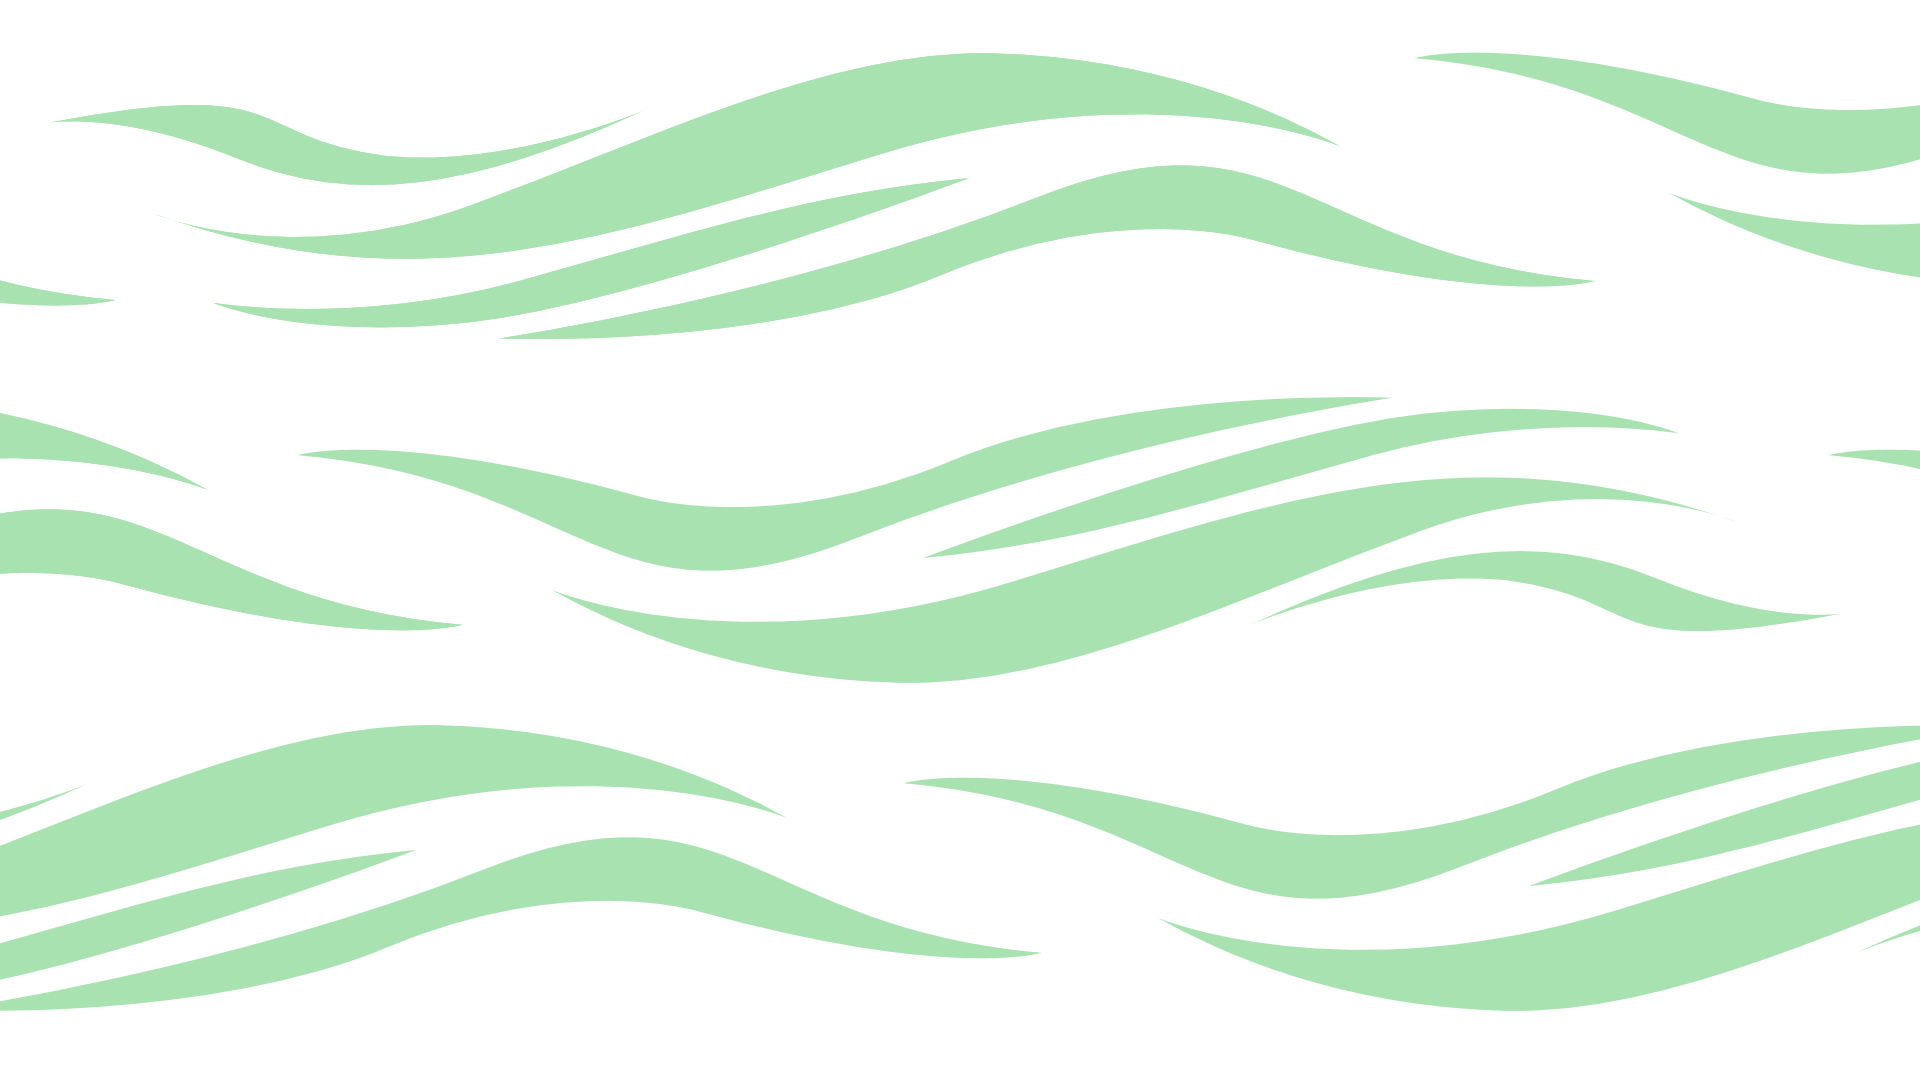
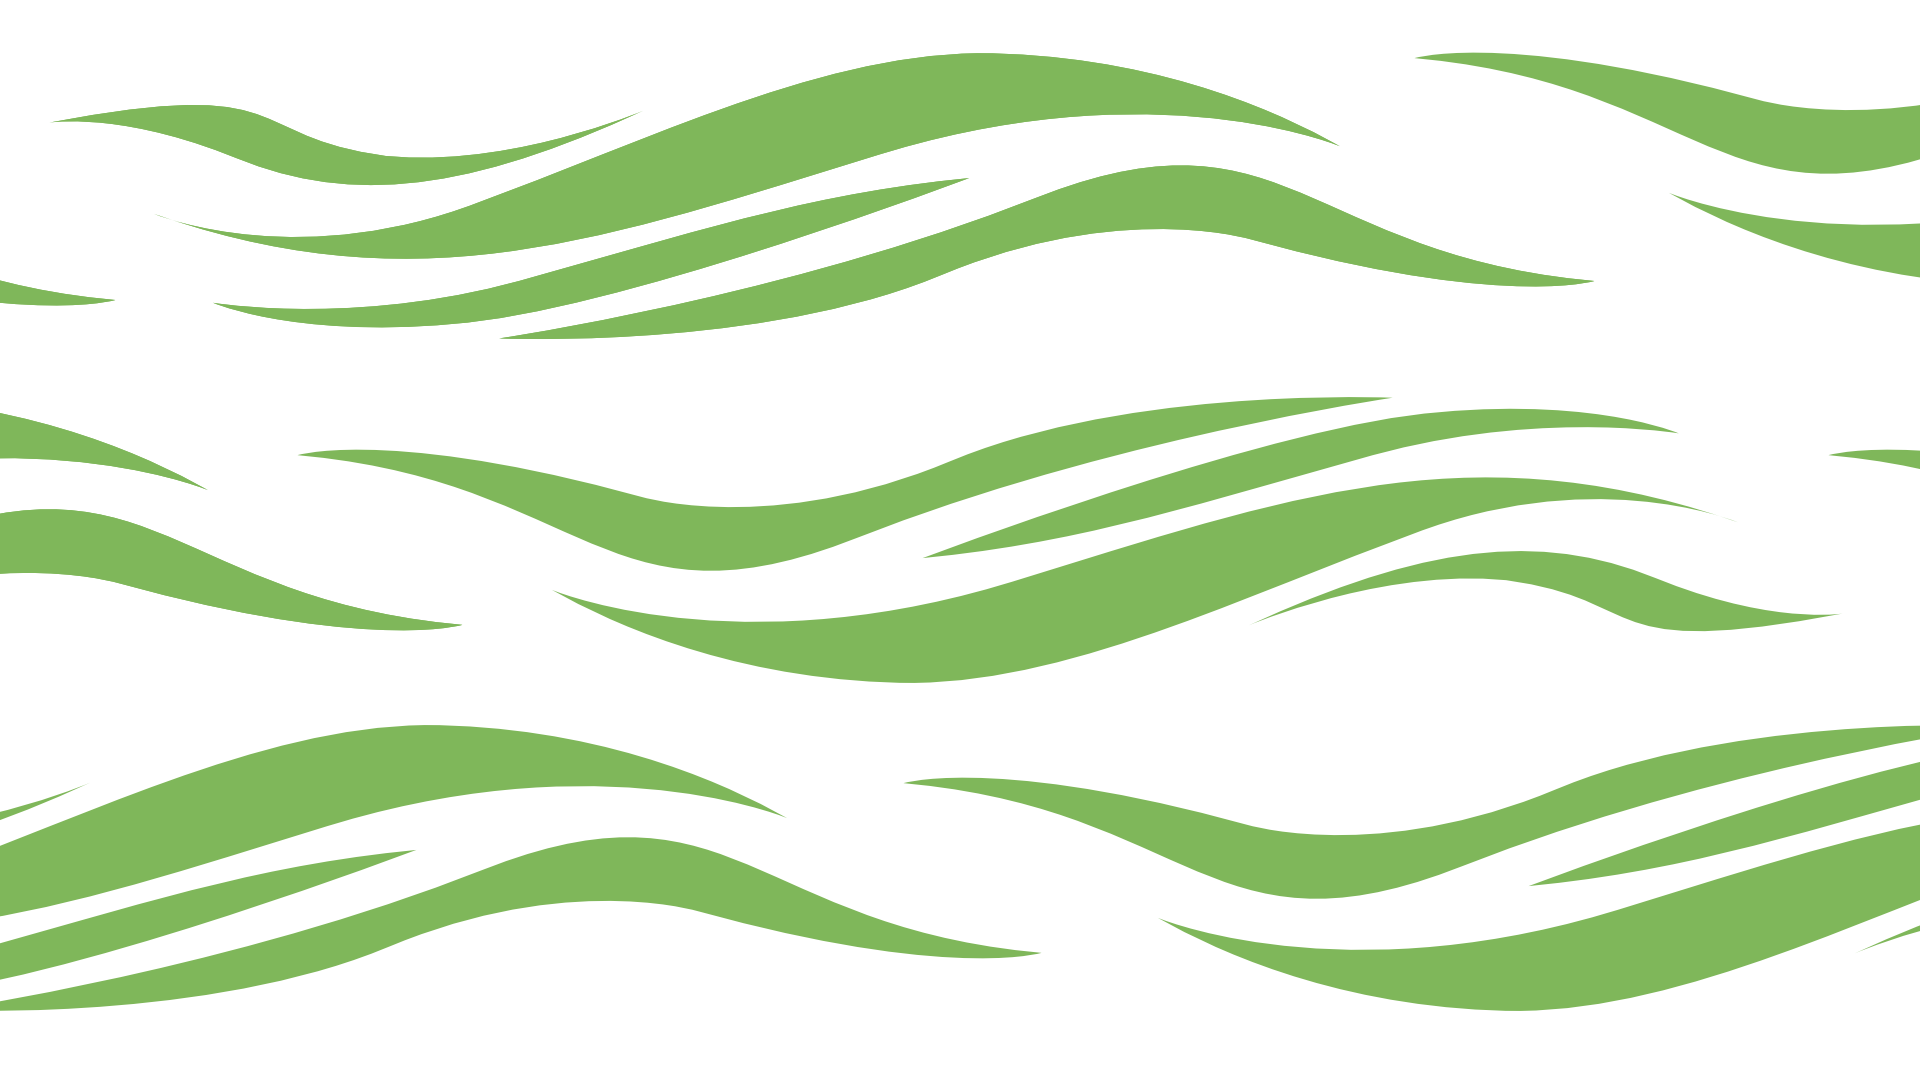
final update

diff --git a/style.css b/style.css
@@ -101,7 +101,7 @@ section {
 .logo {
     padding: 30px;
     border-radius: 0 0 30px 0;
-    background-color: #B4EDBC;
+    background-color: #8BBE6A;
 }
 
 .logo img {
@@ -112,7 +112,7 @@ section {
 .navbar {
     padding: 30px;
     border-radius: 0 0 0 30px;
-    background-color: #B4EDBC;
+    background-color: #8BBE6A;
     display: flex;
     flex-direction: row;
     text-decoration: none;
@@ -147,7 +147,7 @@ section {
     justify-content: center;
     margin-left: 5px;
     margin-right: 5px;
-    border-radius: 20px;
+    border-radius: 20px 0px 20px 0px;
     text-decoration: none;
     cursor: pointer;
     transition: transform 0.3s ease, box-shadow 0.3s ease; /* This tells the browser which animation to run */
@@ -180,7 +180,7 @@ a.iconButton:visited {
 }
 /* The active button on every page has a different background colour */
 .active {
-    background-color: #B4EDBC;
+    background-color: #8BBE6A;
 }
 
 .sectionWhoWeAre {
@@ -276,7 +276,7 @@ a.iconButton:visited {
 /* This is the card that goes to the Plants page */
 .goToPlantsPage {
     cursor: url('assets/images/cursorWhite.svg'), auto;
-    background-color: #B4EDBC;
+    background-color: #8BBE6A;
     display: flex;
     flex-direction: column;
     align-items: center;
@@ -292,7 +292,7 @@ a.iconButton:visited {
 
 .goToPlantsPage:hover {
     transform: translateY(-5px);
-    box-shadow: 0 0 35px #B4EDBC;
+    box-shadow: 0 0 35px #8BBE6A;
 }
 /* This is the card that goes to the Visit page */
 .goToVisitPage {
@@ -523,6 +523,7 @@ footer {
     background-image: url("assets/images/BackgroundWhite.png"); /* Wave background */
     background-position: center;
     background-size: cover;
+    box-shadow: 0 0 20px rgb(0, 0, 0); /* And adds a shadow */ 
 }
 
 .robin p,
@@ -534,7 +535,7 @@ h3 {
     margin-left: 20px;
     width: 66%; /* Makes this box 2/3 of the screen size */
     height: auto;
-    background-color: #B4EDBC;
+    background-color: #8BBE6A;
     display: flex; /* Flexbox */ 
     flex-direction: row;
     justify-content: center;
@@ -544,6 +545,7 @@ h3 {
     background-image: url("assets/images/BackgroundGreen.png"); /* Wave background */
     background-position: center;
     background-size: cover;
+    box-shadow: 0 0 20px rgb(0, 0, 0); /* And adds a shadow */ 
 }
 /* The left side of the tui card */
 .tuiLeft {
@@ -637,6 +639,7 @@ h3 {
     background-image: url("assets/images/BackgroundWhite.png"); /* wave background */
     background-position: center;
     background-size: cover;
+    box-shadow: 0 0 20px rgb(0, 0, 0); /* And adds a shadow */ 
 }
 /* The text side */
 .tuataraLeft {
@@ -778,6 +781,7 @@ h3 {
     background-image: url("assets/images/BackgroundWhite.png"); /* Wave background */
     background-position: center;
     background-size: cover;
+    box-shadow: 0 0 20px rgb(0, 0, 0); /* And adds a shadow */ 
 }
 
 .ruru p,
@@ -789,7 +793,7 @@ h3 {
     margin-right: 20px;
     width: 66%;
     height: auto;
-    background-color: #B4EDBC;
+    background-color: #8BBE6A;
     display: flex; /* Using a flexbox to create two columns  */
     flex-direction: row;
     justify-content: center;
@@ -799,6 +803,7 @@ h3 {
     background-image: url("assets/images/BackgroundGreen.png");
     background-position: center;
     background-size: cover; /* This makes the wave background fill the whole card */
+    box-shadow: 0 0 20px rgb(0, 0, 0); /* And adds a shadow */ 
 }
 
 .hihiLeft {
@@ -892,6 +897,7 @@ h3 {
     background-image: url("assets/images/BackgroundWhite.png"); /* wave background */
     background-position: center;
     background-size: cover;
+    box-shadow: 0 0 20px rgb(0, 0, 0); /* And adds a shadow */ 
 }
 
 .selfTour p {
@@ -917,7 +923,7 @@ h3 {
 .guidedTourInfo {
     width: 100%;
     height: auto;
-    background-color: #B4EDBC;
+    background-color: #8BBE6A;
     display: flex;
     flex-direction: row;
     justify-content: center;
@@ -927,6 +933,7 @@ h3 {
     background-image: url("assets/images/BackgroundGreen.png");
     background-position: center;
     background-size: cover;
+    box-shadow: 0 0 20px rgb(0, 0, 0); /* And adds a shadow */ 
 }
 /* The image */
 .guidedTourLeft {
